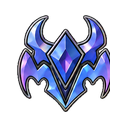
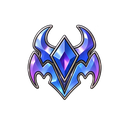
Replace the Sovereign (Dragon) badge with the corrected artwork

diff --git a/activities/pokemon-league/index.html b/activities/pokemon-league/index.html
@@ -20,7 +20,7 @@
 <p>There are eighteen main Gyms in Stellara, each specializing in a different Pokémon type and located within one of the region's settlements. Although other Gyms exist throughout Stellara, these eighteen are officially recognized as part of the main League circuit. Trainers only need to obtain <b>eight Gym Badges</b> to qualify for the Champion Cup, and Gyms may be challenged in any order.</p>
 <h2 id="gyms-and-badges">Gyms and Badges</h2>
 <p class="hint">Select a badge to see its Gym type and where the Gym is.</p>
-<div class="fl crests gyms" id="gym-badges"><div class="fc" style="--t:#aab7bd"><button class="fcb" type="button" aria-pressed="false" aria-label="Alloy Badge. Show the Gym type and place."><span class="in"><span class="f"><span class="art"><img src="../../assets/badges/256/steel.png" alt="" width="256" height="256" loading="lazy"></span><span class="nm">Alloy</span></span><span class="bk"><b>Alloy</b><span class="ty">Steel</span></span></span></button><a class="loc" href="../../region/settlements/cyngi-city/" hidden><svg viewBox="0 0 24 24" aria-hidden="true"><path d="M12 21s-6-5.4-6-10a6 6 0 0 1 12 0c0 4.6-6 10-6 10z"/><circle cx="12" cy="11" r="2.2"/></svg>Cyngi City</a></div><div class="fc" style="--t:#f2c14e"><button class="fcb" type="button" aria-pressed="false" aria-label="Voltage Badge. Show the Gym type and place."><span class="in"><span class="f"><span class="art"><img src="../../assets/badges/256/electric.png" alt="" width="256" height="256" loading="lazy"></span><span class="nm">Voltage</span></span><span class="bk"><b>Voltage</b><span class="ty">Electric</span></span></span></button><a class="loc" href="../../region/settlements/lacaille-city/" hidden><svg viewBox="0 0 24 24" aria-hidden="true"><path d="M12 21s-6-5.4-6-10a6 6 0 0 1 12 0c0 4.6-6 10-6 10z"/><circle cx="12" cy="11" r="2.2"/></svg>Lacaille City</a></div><div class="fc" style="--t:#c9a27a"><button class="fcb" type="button" aria-pressed="false" aria-label="Monolith Badge. Show the Gym type and place."><span class="in"><span class="f"><span class="art"><img src="../../assets/badges/256/rock.png" alt="" width="256" height="256" loading="lazy"></span><span class="nm">Monolith</span></span><span class="bk"><b>Monolith</b><span class="ty">Rock</span></span></span></button><a class="loc" href="../../region/settlements/pavo-town/" hidden><svg viewBox="0 0 24 24" aria-hidden="true"><path d="M12 21s-6-5.4-6-10a6 6 0 0 1 12 0c0 4.6-6 10-6 10z"/><circle cx="12" cy="11" r="2.2"/></svg>Pavo Town</a></div><div class="fc" style="--t:#9d8fc9"><button class="fcb" type="button" aria-pressed="false" aria-label="Eclipse Badge. Show the Gym type and place."><span class="in"><span class="f"><span class="art"><img src="../../assets/badges/256/dark.png" alt="" width="256" height="256" loading="lazy"></span><span class="nm">Eclipse</span></span><span class="bk"><b>Eclipse</b><span class="ty">Dark</span></span></span></button><a class="loc" href="../../region/settlements/vega-city/" hidden><svg viewBox="0 0 24 24" aria-hidden="true"><path d="M12 21s-6-5.4-6-10a6 6 0 0 1 12 0c0 4.6-6 10-6 10z"/><circle cx="12" cy="11" r="2.2"/></svg>Vega City</a></div><div class="fc" style="--t:#c4c4b0"><button class="fcb" type="button" aria-pressed="false" aria-label="Equilibrium Badge. Show the Gym type and place."><span class="in"><span class="f"><span class="art"><img src="../../assets/badges/256/normal.png" alt="" width="256" height="256" loading="lazy"></span><span class="nm">Equilibrium</span></span><span class="bk"><b>Equilibrium</b><span class="ty">Normal</span></span></span></button><a class="loc" href="../../region/settlements/rana-town/" hidden><svg viewBox="0 0 24 24" aria-hidden="true"><path d="M12 21s-6-5.4-6-10a6 6 0 0 1 12 0c0 4.6-6 10-6 10z"/><circle cx="12" cy="11" r="2.2"/></svg>Rana Town</a></div><div class="fc" style="--t:#ef5a67"><button class="fcb" type="button" aria-pressed="false" aria-label="Valor Badge. Show the Gym type and place."><span class="in"><span class="f"><span class="art"><img src="../../assets/badges/256/fighting.png" alt="" width="256" height="256" loading="lazy"></span><span class="nm">Valor</span></span><span class="bk"><b>Valor</b><span class="ty">Fighting</span></span></span></button><a class="loc" href="../../region/settlements/musca-town/" hidden><svg viewBox="0 0 24 24" aria-hidden="true"><path d="M12 21s-6-5.4-6-10a6 6 0 0 1 12 0c0 4.6-6 10-6 10z"/><circle cx="12" cy="11" r="2.2"/></svg>Musca Town</a></div><div class="fc" style="--t:#8fe3f0"><button class="fcb" type="button" aria-pressed="false" aria-label="Glacier Badge. Show the Gym type and place."><span class="in"><span class="f"><span class="art"><img src="../../assets/badges/256/ice.png" alt="" width="256" height="256" loading="lazy"></span><span class="nm">Glacier</span></span><span class="bk"><b>Glacier</b><span class="ty">Ice</span></span></span></button><a class="loc" href="../../region/settlements/nair-city/" hidden><svg viewBox="0 0 24 24" aria-hidden="true"><path d="M12 21s-6-5.4-6-10a6 6 0 0 1 12 0c0 4.6-6 10-6 10z"/><circle cx="12" cy="11" r="2.2"/></svg>Nair City</a></div><div class="fc" style="--t:#ff9a3c"><button class="fcb" type="button" aria-pressed="false" aria-label="Inferno Badge. Show the Gym type and place."><span class="in"><span class="f"><span class="art"><img src="../../assets/badges/256/fire.png" alt="" width="256" height="256" loading="lazy"></span><span class="nm">Inferno</span></span><span class="bk"><b>Inferno</b><span class="ty">Fire</span></span></span></button><a class="loc" href="../../region/settlements/hamal-town/" hidden><svg viewBox="0 0 24 24" aria-hidden="true"><path d="M12 21s-6-5.4-6-10a6 6 0 0 1 12 0c0 4.6-6 10-6 10z"/><circle cx="12" cy="11" r="2.2"/></svg>Hamal Town</a></div><div class="fc" style="--t:#6fe0a0"><button class="fcb" type="button" aria-pressed="false" aria-label="Verdant Badge. Show the Gym type and place."><span class="in"><span class="f"><span class="art"><img src="../../assets/badges/256/grass.png" alt="" width="256" height="256" loading="lazy"></span><span class="nm">Verdant</span></span><span class="bk"><b>Verdant</b><span class="ty">Grass</span></span></span></button><a class="loc" href="../../region/settlements/shaula-town/" hidden><svg viewBox="0 0 24 24" aria-hidden="true"><path d="M12 21s-6-5.4-6-10a6 6 0 0 1 12 0c0 4.6-6 10-6 10z"/><circle cx="12" cy="11" r="2.2"/></svg>Shaula Town</a></div><div class="fc" style="--t:#d6a86a"><button class="fcb" type="button" aria-pressed="false" aria-label="Terra Badge. Show the Gym type and place."><span class="in"><span class="f"><span class="art"><img src="../../assets/badges/256/ground.png" alt="" width="256" height="256" loading="lazy"></span><span class="nm">Terra</span></span><span class="bk"><b>Terra</b><span class="ty">Ground</span></span></span></button><a class="loc" href="../../region/settlements/saiph-city/" hidden><svg viewBox="0 0 24 24" aria-hidden="true"><path d="M12 21s-6-5.4-6-10a6 6 0 0 1 12 0c0 4.6-6 10-6 10z"/><circle cx="12" cy="11" r="2.2"/></svg>Saiph City</a></div><div class="fc" style="--t:#4cc9f0"><button class="fcb" type="button" aria-pressed="false" aria-label="Tidal Badge. Show the Gym type and place."><span class="in"><span class="f"><span class="art"><img src="../../assets/badges/256/water.png" alt="" width="256" height="256" loading="lazy"></span><span class="nm">Tidal</span></span><span class="bk"><b>Tidal</b><span class="ty">Water</span></span></span></button><a class="loc" href="../../region/settlements/eridani-city/" hidden><svg viewBox="0 0 24 24" aria-hidden="true"><path d="M12 21s-6-5.4-6-10a6 6 0 0 1 12 0c0 4.6-6 10-6 10z"/><circle cx="12" cy="11" r="2.2"/></svg>Eridani City</a></div><div class="fc" style="--t:#9bd650"><button class="fcb" type="button" aria-pressed="false" aria-label="Carapace Badge. Show the Gym type and place."><span class="in"><span class="f"><span class="art"><img src="../../assets/badges/256/bug.png" alt="" width="256" height="256" loading="lazy"></span><span class="nm">Carapace</span></span><span class="bk"><b>Carapace</b><span class="ty">Bug</span></span></span></button><a class="loc" href="../../region/settlements/antares-city/" hidden><svg viewBox="0 0 24 24" aria-hidden="true"><path d="M12 21s-6-5.4-6-10a6 6 0 0 1 12 0c0 4.6-6 10-6 10z"/><circle cx="12" cy="11" r="2.2"/></svg>Antares City</a></div><div class="fc" style="--t:#ff6fb5"><button class="fcb" type="button" aria-pressed="false" aria-label="Psyche Badge. Show the Gym type and place."><span class="in"><span class="f"><span class="art"><img src="../../assets/badges/256/psychic.png" alt="" width="256" height="256" loading="lazy"></span><span class="nm">Psyche</span></span><span class="bk"><b>Psyche</b><span class="ty">Psychic</span></span></span></button><a class="loc" href="../../region/settlements/mintaka-city/" hidden><svg viewBox="0 0 24 24" aria-hidden="true"><path d="M12 21s-6-5.4-6-10a6 6 0 0 1 12 0c0 4.6-6 10-6 10z"/><circle cx="12" cy="11" r="2.2"/></svg>Mintaka City</a></div><div class="fc" style="--t:#8fa8ff"><button class="fcb" type="button" aria-pressed="false" aria-label="Zephyr Badge. Show the Gym type and place."><span class="in"><span class="f"><span class="art"><img src="../../assets/badges/256/flying.png" alt="" width="256" height="256" loading="lazy"></span><span class="nm">Zephyr</span></span><span class="bk"><b>Zephyr</b><span class="ty">Flying</span></span></span></button><a class="loc" href="../../region/settlements/baltis-city/" hidden><svg viewBox="0 0 24 24" aria-hidden="true"><path d="M12 21s-6-5.4-6-10a6 6 0 0 1 12 0c0 4.6-6 10-6 10z"/><circle cx="12" cy="11" r="2.2"/></svg>Baltis City</a></div><div class="fc" style="--t:#5b7bff"><button class="fcb" type="button" aria-pressed="false" aria-label="Sovereign Badge. Show the Gym type and place."><span class="in"><span class="f"><span class="art"><img src="../../assets/badges/256/dragon.png" alt="" width="256" height="256" loading="lazy"></span><span class="nm">Sovereign</span></span><span class="bk"><b>Sovereign</b><span class="ty">Dragon</span></span></span></button><a class="loc" href="../../region/settlements/altair-city/" hidden><svg viewBox="0 0 24 24" aria-hidden="true"><path d="M12 21s-6-5.4-6-10a6 6 0 0 1 12 0c0 4.6-6 10-6 10z"/><circle cx="12" cy="11" r="2.2"/></svg>Altair City</a></div><div class="fc" style="--t:#8c7ae6"><button class="fcb" type="button" aria-pressed="false" aria-label="Phantom Badge. Show the Gym type and place."><span class="in"><span class="f"><span class="art"><img src="../../assets/badges/256/ghost.png" alt="" width="256" height="256" loading="lazy"></span><span class="nm">Phantom</span></span><span class="bk"><b>Phantom</b><span class="ty">Ghost</span></span></span></button><a class="loc" href="../../region/settlements/menkent-town/" hidden><svg viewBox="0 0 24 24" aria-hidden="true"><path d="M12 21s-6-5.4-6-10a6 6 0 0 1 12 0c0 4.6-6 10-6 10z"/><circle cx="12" cy="11" r="2.2"/></svg>Menkent Town</a></div><div class="fc" style="--t:#ff9ad5"><button class="fcb" type="button" aria-pressed="false" aria-label="Enchantment Badge. Show the Gym type and place."><span class="in"><span class="f"><span class="art"><img src="../../assets/badges/256/fairy.png" alt="" width="256" height="256" loading="lazy"></span><span class="nm">Enchantment</span></span><span class="bk"><b>Enchantment</b><span class="ty">Fairy</span></span></span></button><a class="loc" href="../../region/settlements/celaeno-town/" hidden><svg viewBox="0 0 24 24" aria-hidden="true"><path d="M12 21s-6-5.4-6-10a6 6 0 0 1 12 0c0 4.6-6 10-6 10z"/><circle cx="12" cy="11" r="2.2"/></svg>Celaeno Town</a></div><div class="fc" style="--t:#b690ff"><button class="fcb" type="button" aria-pressed="false" aria-label="Venom Badge. Show the Gym type and place."><span class="in"><span class="f"><span class="art"><img src="../../assets/badges/256/poison.png" alt="" width="256" height="256" loading="lazy"></span><span class="nm">Venom</span></span><span class="bk"><b>Venom</b><span class="ty">Poison</span></span></span></button><a class="loc" href="../../region/settlements/sabik-town/" hidden><svg viewBox="0 0 24 24" aria-hidden="true"><path d="M12 21s-6-5.4-6-10a6 6 0 0 1 12 0c0 4.6-6 10-6 10z"/><circle cx="12" cy="11" r="2.2"/></svg>Sabik Town</a></div></div>
+<div class="fl crests gyms" id="gym-badges"><div class="fc" style="--t:#aab7bd"><button class="fcb" type="button" aria-pressed="false" aria-label="Alloy Badge. Show the Gym type and place."><span class="in"><span class="f"><span class="art"><img src="../../assets/badges/256/steel.png" alt="" width="256" height="256" loading="lazy"></span><span class="nm">Alloy</span></span><span class="bk"><b>Alloy</b><span class="ty">Steel</span></span></span></button><a class="loc" href="../../region/settlements/cyngi-city/" hidden><svg viewBox="0 0 24 24" aria-hidden="true"><path d="M12 21s-6-5.4-6-10a6 6 0 0 1 12 0c0 4.6-6 10-6 10z"/><circle cx="12" cy="11" r="2.2"/></svg>Cyngi City</a></div><div class="fc" style="--t:#f2c14e"><button class="fcb" type="button" aria-pressed="false" aria-label="Voltage Badge. Show the Gym type and place."><span class="in"><span class="f"><span class="art"><img src="../../assets/badges/256/electric.png" alt="" width="256" height="256" loading="lazy"></span><span class="nm">Voltage</span></span><span class="bk"><b>Voltage</b><span class="ty">Electric</span></span></span></button><a class="loc" href="../../region/settlements/lacaille-city/" hidden><svg viewBox="0 0 24 24" aria-hidden="true"><path d="M12 21s-6-5.4-6-10a6 6 0 0 1 12 0c0 4.6-6 10-6 10z"/><circle cx="12" cy="11" r="2.2"/></svg>Lacaille City</a></div><div class="fc" style="--t:#c9a27a"><button class="fcb" type="button" aria-pressed="false" aria-label="Monolith Badge. Show the Gym type and place."><span class="in"><span class="f"><span class="art"><img src="../../assets/badges/256/rock.png" alt="" width="256" height="256" loading="lazy"></span><span class="nm">Monolith</span></span><span class="bk"><b>Monolith</b><span class="ty">Rock</span></span></span></button><a class="loc" href="../../region/settlements/pavo-town/" hidden><svg viewBox="0 0 24 24" aria-hidden="true"><path d="M12 21s-6-5.4-6-10a6 6 0 0 1 12 0c0 4.6-6 10-6 10z"/><circle cx="12" cy="11" r="2.2"/></svg>Pavo Town</a></div><div class="fc" style="--t:#9d8fc9"><button class="fcb" type="button" aria-pressed="false" aria-label="Eclipse Badge. Show the Gym type and place."><span class="in"><span class="f"><span class="art"><img src="../../assets/badges/256/dark.png" alt="" width="256" height="256" loading="lazy"></span><span class="nm">Eclipse</span></span><span class="bk"><b>Eclipse</b><span class="ty">Dark</span></span></span></button><a class="loc" href="../../region/settlements/vega-city/" hidden><svg viewBox="0 0 24 24" aria-hidden="true"><path d="M12 21s-6-5.4-6-10a6 6 0 0 1 12 0c0 4.6-6 10-6 10z"/><circle cx="12" cy="11" r="2.2"/></svg>Vega City</a></div><div class="fc" style="--t:#c4c4b0"><button class="fcb" type="button" aria-pressed="false" aria-label="Equilibrium Badge. Show the Gym type and place."><span class="in"><span class="f"><span class="art"><img src="../../assets/badges/256/normal.png" alt="" width="256" height="256" loading="lazy"></span><span class="nm">Equilibrium</span></span><span class="bk"><b>Equilibrium</b><span class="ty">Normal</span></span></span></button><a class="loc" href="../../region/settlements/rana-town/" hidden><svg viewBox="0 0 24 24" aria-hidden="true"><path d="M12 21s-6-5.4-6-10a6 6 0 0 1 12 0c0 4.6-6 10-6 10z"/><circle cx="12" cy="11" r="2.2"/></svg>Rana Town</a></div><div class="fc" style="--t:#ef5a67"><button class="fcb" type="button" aria-pressed="false" aria-label="Valor Badge. Show the Gym type and place."><span class="in"><span class="f"><span class="art"><img src="../../assets/badges/256/fighting.png" alt="" width="256" height="256" loading="lazy"></span><span class="nm">Valor</span></span><span class="bk"><b>Valor</b><span class="ty">Fighting</span></span></span></button><a class="loc" href="../../region/settlements/musca-town/" hidden><svg viewBox="0 0 24 24" aria-hidden="true"><path d="M12 21s-6-5.4-6-10a6 6 0 0 1 12 0c0 4.6-6 10-6 10z"/><circle cx="12" cy="11" r="2.2"/></svg>Musca Town</a></div><div class="fc" style="--t:#8fe3f0"><button class="fcb" type="button" aria-pressed="false" aria-label="Glacier Badge. Show the Gym type and place."><span class="in"><span class="f"><span class="art"><img src="../../assets/badges/256/ice.png" alt="" width="256" height="256" loading="lazy"></span><span class="nm">Glacier</span></span><span class="bk"><b>Glacier</b><span class="ty">Ice</span></span></span></button><a class="loc" href="../../region/settlements/nair-city/" hidden><svg viewBox="0 0 24 24" aria-hidden="true"><path d="M12 21s-6-5.4-6-10a6 6 0 0 1 12 0c0 4.6-6 10-6 10z"/><circle cx="12" cy="11" r="2.2"/></svg>Nair City</a></div><div class="fc" style="--t:#ff9a3c"><button class="fcb" type="button" aria-pressed="false" aria-label="Inferno Badge. Show the Gym type and place."><span class="in"><span class="f"><span class="art"><img src="../../assets/badges/256/fire.png" alt="" width="256" height="256" loading="lazy"></span><span class="nm">Inferno</span></span><span class="bk"><b>Inferno</b><span class="ty">Fire</span></span></span></button><a class="loc" href="../../region/settlements/hamal-town/" hidden><svg viewBox="0 0 24 24" aria-hidden="true"><path d="M12 21s-6-5.4-6-10a6 6 0 0 1 12 0c0 4.6-6 10-6 10z"/><circle cx="12" cy="11" r="2.2"/></svg>Hamal Town</a></div><div class="fc" style="--t:#6fe0a0"><button class="fcb" type="button" aria-pressed="false" aria-label="Verdant Badge. Show the Gym type and place."><span class="in"><span class="f"><span class="art"><img src="../../assets/badges/256/grass.png" alt="" width="256" height="256" loading="lazy"></span><span class="nm">Verdant</span></span><span class="bk"><b>Verdant</b><span class="ty">Grass</span></span></span></button><a class="loc" href="../../region/settlements/shaula-town/" hidden><svg viewBox="0 0 24 24" aria-hidden="true"><path d="M12 21s-6-5.4-6-10a6 6 0 0 1 12 0c0 4.6-6 10-6 10z"/><circle cx="12" cy="11" r="2.2"/></svg>Shaula Town</a></div><div class="fc" style="--t:#d6a86a"><button class="fcb" type="button" aria-pressed="false" aria-label="Terra Badge. Show the Gym type and place."><span class="in"><span class="f"><span class="art"><img src="../../assets/badges/256/ground.png" alt="" width="256" height="256" loading="lazy"></span><span class="nm">Terra</span></span><span class="bk"><b>Terra</b><span class="ty">Ground</span></span></span></button><a class="loc" href="../../region/settlements/saiph-city/" hidden><svg viewBox="0 0 24 24" aria-hidden="true"><path d="M12 21s-6-5.4-6-10a6 6 0 0 1 12 0c0 4.6-6 10-6 10z"/><circle cx="12" cy="11" r="2.2"/></svg>Saiph City</a></div><div class="fc" style="--t:#4cc9f0"><button class="fcb" type="button" aria-pressed="false" aria-label="Tidal Badge. Show the Gym type and place."><span class="in"><span class="f"><span class="art"><img src="../../assets/badges/256/water.png" alt="" width="256" height="256" loading="lazy"></span><span class="nm">Tidal</span></span><span class="bk"><b>Tidal</b><span class="ty">Water</span></span></span></button><a class="loc" href="../../region/settlements/eridani-city/" hidden><svg viewBox="0 0 24 24" aria-hidden="true"><path d="M12 21s-6-5.4-6-10a6 6 0 0 1 12 0c0 4.6-6 10-6 10z"/><circle cx="12" cy="11" r="2.2"/></svg>Eridani City</a></div><div class="fc" style="--t:#9bd650"><button class="fcb" type="button" aria-pressed="false" aria-label="Carapace Badge. Show the Gym type and place."><span class="in"><span class="f"><span class="art"><img src="../../assets/badges/256/bug.png" alt="" width="256" height="256" loading="lazy"></span><span class="nm">Carapace</span></span><span class="bk"><b>Carapace</b><span class="ty">Bug</span></span></span></button><a class="loc" href="../../region/settlements/antares-city/" hidden><svg viewBox="0 0 24 24" aria-hidden="true"><path d="M12 21s-6-5.4-6-10a6 6 0 0 1 12 0c0 4.6-6 10-6 10z"/><circle cx="12" cy="11" r="2.2"/></svg>Antares City</a></div><div class="fc" style="--t:#ff6fb5"><button class="fcb" type="button" aria-pressed="false" aria-label="Psyche Badge. Show the Gym type and place."><span class="in"><span class="f"><span class="art"><img src="../../assets/badges/256/psychic.png" alt="" width="256" height="256" loading="lazy"></span><span class="nm">Psyche</span></span><span class="bk"><b>Psyche</b><span class="ty">Psychic</span></span></span></button><a class="loc" href="../../region/settlements/mintaka-city/" hidden><svg viewBox="0 0 24 24" aria-hidden="true"><path d="M12 21s-6-5.4-6-10a6 6 0 0 1 12 0c0 4.6-6 10-6 10z"/><circle cx="12" cy="11" r="2.2"/></svg>Mintaka City</a></div><div class="fc" style="--t:#8fa8ff"><button class="fcb" type="button" aria-pressed="false" aria-label="Zephyr Badge. Show the Gym type and place."><span class="in"><span class="f"><span class="art"><img src="../../assets/badges/256/flying.png" alt="" width="256" height="256" loading="lazy"></span><span class="nm">Zephyr</span></span><span class="bk"><b>Zephyr</b><span class="ty">Flying</span></span></span></button><a class="loc" href="../../region/settlements/baltis-city/" hidden><svg viewBox="0 0 24 24" aria-hidden="true"><path d="M12 21s-6-5.4-6-10a6 6 0 0 1 12 0c0 4.6-6 10-6 10z"/><circle cx="12" cy="11" r="2.2"/></svg>Baltis City</a></div><div class="fc" style="--t:#5b7bff"><button class="fcb" type="button" aria-pressed="false" aria-label="Sovereign Badge. Show the Gym type and place."><span class="in"><span class="f"><span class="art"><img src="../../assets/badges/256/dragon.png?v=1794082401" alt="" width="256" height="256" loading="lazy"></span><span class="nm">Sovereign</span></span><span class="bk"><b>Sovereign</b><span class="ty">Dragon</span></span></span></button><a class="loc" href="../../region/settlements/altair-city/" hidden><svg viewBox="0 0 24 24" aria-hidden="true"><path d="M12 21s-6-5.4-6-10a6 6 0 0 1 12 0c0 4.6-6 10-6 10z"/><circle cx="12" cy="11" r="2.2"/></svg>Altair City</a></div><div class="fc" style="--t:#8c7ae6"><button class="fcb" type="button" aria-pressed="false" aria-label="Phantom Badge. Show the Gym type and place."><span class="in"><span class="f"><span class="art"><img src="../../assets/badges/256/ghost.png" alt="" width="256" height="256" loading="lazy"></span><span class="nm">Phantom</span></span><span class="bk"><b>Phantom</b><span class="ty">Ghost</span></span></span></button><a class="loc" href="../../region/settlements/menkent-town/" hidden><svg viewBox="0 0 24 24" aria-hidden="true"><path d="M12 21s-6-5.4-6-10a6 6 0 0 1 12 0c0 4.6-6 10-6 10z"/><circle cx="12" cy="11" r="2.2"/></svg>Menkent Town</a></div><div class="fc" style="--t:#ff9ad5"><button class="fcb" type="button" aria-pressed="false" aria-label="Enchantment Badge. Show the Gym type and place."><span class="in"><span class="f"><span class="art"><img src="../../assets/badges/256/fairy.png" alt="" width="256" height="256" loading="lazy"></span><span class="nm">Enchantment</span></span><span class="bk"><b>Enchantment</b><span class="ty">Fairy</span></span></span></button><a class="loc" href="../../region/settlements/celaeno-town/" hidden><svg viewBox="0 0 24 24" aria-hidden="true"><path d="M12 21s-6-5.4-6-10a6 6 0 0 1 12 0c0 4.6-6 10-6 10z"/><circle cx="12" cy="11" r="2.2"/></svg>Celaeno Town</a></div><div class="fc" style="--t:#b690ff"><button class="fcb" type="button" aria-pressed="false" aria-label="Venom Badge. Show the Gym type and place."><span class="in"><span class="f"><span class="art"><img src="../../assets/badges/256/poison.png" alt="" width="256" height="256" loading="lazy"></span><span class="nm">Venom</span></span><span class="bk"><b>Venom</b><span class="ty">Poison</span></span></span></button><a class="loc" href="../../region/settlements/sabik-town/" hidden><svg viewBox="0 0 24 24" aria-hidden="true"><path d="M12 21s-6-5.4-6-10a6 6 0 0 1 12 0c0 4.6-6 10-6 10z"/><circle cx="12" cy="11" r="2.2"/></svg>Sabik Town</a></div></div>
 <noscript><ul class="plain"><li><a href="../../region/settlements/cyngi-city/">Cyngi City</a>: Steel, Alloy Badge</li><li><a href="../../region/settlements/lacaille-city/">Lacaille City</a>: Electric, Voltage Badge</li><li><a href="../../region/settlements/pavo-town/">Pavo Town</a>: Rock, Monolith Badge</li><li><a href="../../region/settlements/vega-city/">Vega City</a>: Dark, Eclipse Badge</li><li><a href="../../region/settlements/rana-town/">Rana Town</a>: Normal, Equilibrium Badge</li><li><a href="../../region/settlements/musca-town/">Musca Town</a>: Fighting, Valor Badge</li><li><a href="../../region/settlements/nair-city/">Nair City</a>: Ice, Glacier Badge</li><li><a href="../../region/settlements/hamal-town/">Hamal Town</a>: Fire, Inferno Badge</li><li><a href="../../region/settlements/shaula-town/">Shaula Town</a>: Grass, Verdant Badge</li><li><a href="../../region/settlements/saiph-city/">Saiph City</a>: Ground, Terra Badge</li><li><a href="../../region/settlements/eridani-city/">Eridani City</a>: Water, Tidal Badge</li><li><a href="../../region/settlements/antares-city/">Antares City</a>: Bug, Carapace Badge</li><li><a href="../../region/settlements/mintaka-city/">Mintaka City</a>: Psychic, Psyche Badge</li><li><a href="../../region/settlements/baltis-city/">Baltis City</a>: Flying, Zephyr Badge</li><li><a href="../../region/settlements/altair-city/">Altair City</a>: Dragon, Sovereign Badge</li><li><a href="../../region/settlements/menkent-town/">Menkent Town</a>: Ghost, Phantom Badge</li><li><a href="../../region/settlements/celaeno-town/">Celaeno Town</a>: Fairy, Enchantment Badge</li><li><a href="../../region/settlements/sabik-town/">Sabik Town</a>: Poison, Venom Badge</li></ul></noscript>
 <h2 id="gym-challenges">Gym Challenges</h2>
 <p>Gym challenges become progressively more difficult depending on how many badges a Trainer has earned. Gym Leaders will adjust their Pokémon and strategies to provide an appropriate challenge, preventing experienced Trainers from simply overwhelming weaker teams. The following guidelines describe the average Pokémon Tier a Gym Leader will use based on the challenger's current badge count.</p>
